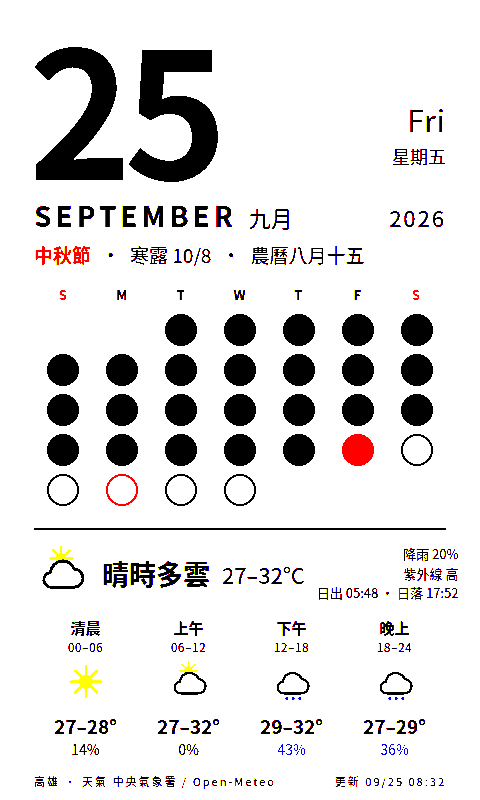
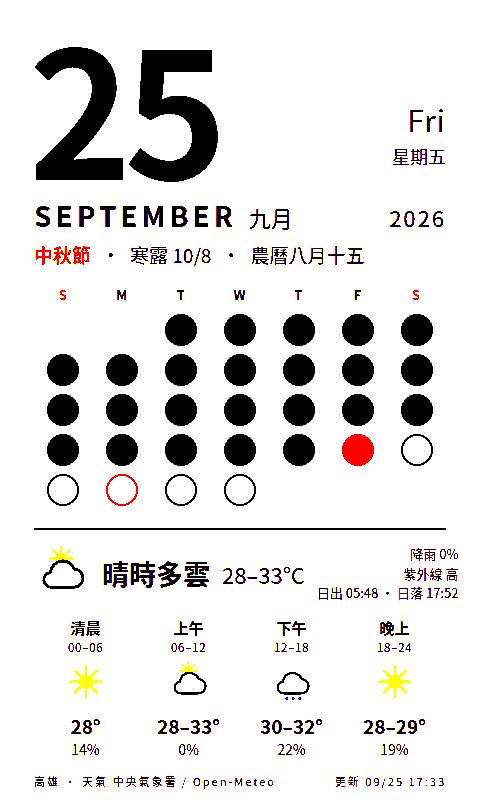
deploy: cf7d1051eb6821bc691ba0ade4beb12cdf9fe0ef

diff --git a/calendar.html b/calendar.html
@@ -54,9 +54,9 @@
   <div class="today"><span class="hl">中秋節</span><span>·</span><span class="lunar">寒露 10/8</span><span>·</span><span class="lunar">農曆八月十五</span></div>
   <div class="grid"><div class="h we">S</div><div class="h">M</div><div class="h">T</div><div class="h">W</div><div class="h">T</div><div class="h">F</div><div class="h we">S</div><div class="dot empty"></div><div class="dot empty"></div><div class="dot past" title="1"></div><div class="dot past" title="2"></div><div class="dot past" title="3"></div><div class="dot past" title="4"></div><div class="dot past" title="5"></div><div class="dot past" title="6"></div><div class="dot past" title="7"></div><div class="dot past" title="8"></div><div class="dot past" title="9"></div><div class="dot past" title="10"></div><div class="dot past" title="11"></div><div class="dot past" title="12"></div><div class="dot past" title="13"></div><div class="dot past" title="14"></div><div class="dot past" title="15"></div><div class="dot past" title="16"></div><div class="dot past" title="17"></div><div class="dot past" title="18"></div><div class="dot past" title="19"></div><div class="dot past" title="20"></div><div class="dot past" title="21"></div><div class="dot past" title="22"></div><div class="dot past" title="23"></div><div class="dot past" title="24"></div><div class="dot now" title="25"></div><div class="dot future" title="26"></div><div class="dot future" title="27"></div><div class="dot future hol" title="28"></div><div class="dot future" title="29"></div><div class="dot future" title="30"></div></div>
   <div class="wx"><div class="line">
-    <div class="wxhead"><svg viewBox="0 0 64 68" xmlns="http://www.w3.org/2000/svg"><g transform="translate(12 -4) scale(.6)"><circle cx="32" cy="32" r="11" fill="#f5c400"/><g stroke="#f5c400" stroke-width="4" stroke-linecap="round"><line x1="32" y1="32" x2="32" y2="8" transform="rotate(0 32 32)"/><line x1="32" y1="32" x2="32" y2="8" transform="rotate(45 32 32)"/><line x1="32" y1="32" x2="32" y2="8" transform="rotate(90 32 32)"/><line x1="32" y1="32" x2="32" y2="8" transform="rotate(135 32 32)"/><line x1="32" y1="32" x2="32" y2="8" transform="rotate(180 32 32)"/><line x1="32" y1="32" x2="32" y2="8" transform="rotate(225 32 32)"/><line x1="32" y1="32" x2="32" y2="8" transform="rotate(270 32 32)"/><line x1="32" y1="32" x2="32" y2="8" transform="rotate(315 32 32)"/></g></g><path d="M20 50h26a11 11 0 0 0 1-22 15 15 0 0 0-29 4 9 9 0 0 0 2 18z" fill="#fff" stroke="#000" stroke-width="3.5" stroke-linejoin="round"/></svg><span class="desc">晴時多雲</span><span class="temp">27–32°C</span>
-      <div class="meta">降雨 20%<br>紫外線 高<br>日出 05:48 · 日落 17:52</div></div>
-    <div class="slots"><div class="slot"><div class="n">清晨</div><div class="hrs">00–06</div><svg viewBox="0 0 64 68" xmlns="http://www.w3.org/2000/svg"><circle cx="32" cy="32" r="11" fill="#f5c400"/><g stroke="#f5c400" stroke-width="4" stroke-linecap="round"><line x1="32" y1="32" x2="32" y2="8" transform="rotate(0 32 32)"/><line x1="32" y1="32" x2="32" y2="8" transform="rotate(45 32 32)"/><line x1="32" y1="32" x2="32" y2="8" transform="rotate(90 32 32)"/><line x1="32" y1="32" x2="32" y2="8" transform="rotate(135 32 32)"/><line x1="32" y1="32" x2="32" y2="8" transform="rotate(180 32 32)"/><line x1="32" y1="32" x2="32" y2="8" transform="rotate(225 32 32)"/><line x1="32" y1="32" x2="32" y2="8" transform="rotate(270 32 32)"/><line x1="32" y1="32" x2="32" y2="8" transform="rotate(315 32 32)"/></g></svg><div class="t">27–28°</div><div class="p dry">14%</div></div><div class="slot"><div class="n">上午</div><div class="hrs">06–12</div><svg viewBox="0 0 64 68" xmlns="http://www.w3.org/2000/svg"><g transform="translate(12 -4) scale(.6)"><circle cx="32" cy="32" r="11" fill="#f5c400"/><g stroke="#f5c400" stroke-width="4" stroke-linecap="round"><line x1="32" y1="32" x2="32" y2="8" transform="rotate(0 32 32)"/><line x1="32" y1="32" x2="32" y2="8" transform="rotate(45 32 32)"/><line x1="32" y1="32" x2="32" y2="8" transform="rotate(90 32 32)"/><line x1="32" y1="32" x2="32" y2="8" transform="rotate(135 32 32)"/><line x1="32" y1="32" x2="32" y2="8" transform="rotate(180 32 32)"/><line x1="32" y1="32" x2="32" y2="8" transform="rotate(225 32 32)"/><line x1="32" y1="32" x2="32" y2="8" transform="rotate(270 32 32)"/><line x1="32" y1="32" x2="32" y2="8" transform="rotate(315 32 32)"/></g></g><path d="M20 50h26a11 11 0 0 0 1-22 15 15 0 0 0-29 4 9 9 0 0 0 2 18z" fill="#fff" stroke="#000" stroke-width="3.5" stroke-linejoin="round"/></svg><div class="t">27–32°</div><div class="p dry">0%</div></div><div class="slot"><div class="n">下午</div><div class="hrs">12–18</div><svg viewBox="0 0 64 68" xmlns="http://www.w3.org/2000/svg"><path d="M20 50h26a11 11 0 0 0 1-22 15 15 0 0 0-29 4 9 9 0 0 0 2 18z" fill="#fff" stroke="#000" stroke-width="3.5" stroke-linejoin="round"/><g fill="#0040ff"><circle cx="24" cy="58" r="2.2"/><circle cx="34" cy="58" r="2.2"/><circle cx="44" cy="58" r="2.2"/></g></svg><div class="t">29–32°</div><div class="p ">43%</div></div><div class="slot"><div class="n">晚上</div><div class="hrs">18–24</div><svg viewBox="0 0 64 68" xmlns="http://www.w3.org/2000/svg"><path d="M20 50h26a11 11 0 0 0 1-22 15 15 0 0 0-29 4 9 9 0 0 0 2 18z" fill="#fff" stroke="#000" stroke-width="3.5" stroke-linejoin="round"/><g fill="#0040ff"><circle cx="24" cy="58" r="2.2"/><circle cx="34" cy="58" r="2.2"/><circle cx="44" cy="58" r="2.2"/></g></svg><div class="t">27–29°</div><div class="p ">36%</div></div></div>
+    <div class="wxhead"><svg viewBox="0 0 64 68" xmlns="http://www.w3.org/2000/svg"><g transform="translate(12 -4) scale(.6)"><circle cx="32" cy="32" r="11" fill="#f5c400"/><g stroke="#f5c400" stroke-width="4" stroke-linecap="round"><line x1="32" y1="32" x2="32" y2="8" transform="rotate(0 32 32)"/><line x1="32" y1="32" x2="32" y2="8" transform="rotate(45 32 32)"/><line x1="32" y1="32" x2="32" y2="8" transform="rotate(90 32 32)"/><line x1="32" y1="32" x2="32" y2="8" transform="rotate(135 32 32)"/><line x1="32" y1="32" x2="32" y2="8" transform="rotate(180 32 32)"/><line x1="32" y1="32" x2="32" y2="8" transform="rotate(225 32 32)"/><line x1="32" y1="32" x2="32" y2="8" transform="rotate(270 32 32)"/><line x1="32" y1="32" x2="32" y2="8" transform="rotate(315 32 32)"/></g></g><path d="M20 50h26a11 11 0 0 0 1-22 15 15 0 0 0-29 4 9 9 0 0 0 2 18z" fill="#fff" stroke="#000" stroke-width="3.5" stroke-linejoin="round"/></svg><span class="desc">晴時多雲</span><span class="temp">28–33°C</span>
+      <div class="meta">降雨 0%<br>紫外線 高<br>日出 05:48 · 日落 17:52</div></div>
+    <div class="slots"><div class="slot"><div class="n">清晨</div><div class="hrs">00–06</div><svg viewBox="0 0 64 68" xmlns="http://www.w3.org/2000/svg"><circle cx="32" cy="32" r="11" fill="#f5c400"/><g stroke="#f5c400" stroke-width="4" stroke-linecap="round"><line x1="32" y1="32" x2="32" y2="8" transform="rotate(0 32 32)"/><line x1="32" y1="32" x2="32" y2="8" transform="rotate(45 32 32)"/><line x1="32" y1="32" x2="32" y2="8" transform="rotate(90 32 32)"/><line x1="32" y1="32" x2="32" y2="8" transform="rotate(135 32 32)"/><line x1="32" y1="32" x2="32" y2="8" transform="rotate(180 32 32)"/><line x1="32" y1="32" x2="32" y2="8" transform="rotate(225 32 32)"/><line x1="32" y1="32" x2="32" y2="8" transform="rotate(270 32 32)"/><line x1="32" y1="32" x2="32" y2="8" transform="rotate(315 32 32)"/></g></svg><div class="t">28°</div><div class="p dry">14%</div></div><div class="slot"><div class="n">上午</div><div class="hrs">06–12</div><svg viewBox="0 0 64 68" xmlns="http://www.w3.org/2000/svg"><g transform="translate(12 -4) scale(.6)"><circle cx="32" cy="32" r="11" fill="#f5c400"/><g stroke="#f5c400" stroke-width="4" stroke-linecap="round"><line x1="32" y1="32" x2="32" y2="8" transform="rotate(0 32 32)"/><line x1="32" y1="32" x2="32" y2="8" transform="rotate(45 32 32)"/><line x1="32" y1="32" x2="32" y2="8" transform="rotate(90 32 32)"/><line x1="32" y1="32" x2="32" y2="8" transform="rotate(135 32 32)"/><line x1="32" y1="32" x2="32" y2="8" transform="rotate(180 32 32)"/><line x1="32" y1="32" x2="32" y2="8" transform="rotate(225 32 32)"/><line x1="32" y1="32" x2="32" y2="8" transform="rotate(270 32 32)"/><line x1="32" y1="32" x2="32" y2="8" transform="rotate(315 32 32)"/></g></g><path d="M20 50h26a11 11 0 0 0 1-22 15 15 0 0 0-29 4 9 9 0 0 0 2 18z" fill="#fff" stroke="#000" stroke-width="3.5" stroke-linejoin="round"/></svg><div class="t">28–33°</div><div class="p dry">0%</div></div><div class="slot"><div class="n">下午</div><div class="hrs">12–18</div><svg viewBox="0 0 64 68" xmlns="http://www.w3.org/2000/svg"><path d="M20 50h26a11 11 0 0 0 1-22 15 15 0 0 0-29 4 9 9 0 0 0 2 18z" fill="#fff" stroke="#000" stroke-width="3.5" stroke-linejoin="round"/><g fill="#0040ff"><circle cx="24" cy="58" r="2.2"/><circle cx="34" cy="58" r="2.2"/><circle cx="44" cy="58" r="2.2"/></g></svg><div class="t">30–32°</div><div class="p dry">22%</div></div><div class="slot"><div class="n">晚上</div><div class="hrs">18–24</div><svg viewBox="0 0 64 68" xmlns="http://www.w3.org/2000/svg"><circle cx="32" cy="32" r="11" fill="#f5c400"/><g stroke="#f5c400" stroke-width="4" stroke-linecap="round"><line x1="32" y1="32" x2="32" y2="8" transform="rotate(0 32 32)"/><line x1="32" y1="32" x2="32" y2="8" transform="rotate(45 32 32)"/><line x1="32" y1="32" x2="32" y2="8" transform="rotate(90 32 32)"/><line x1="32" y1="32" x2="32" y2="8" transform="rotate(135 32 32)"/><line x1="32" y1="32" x2="32" y2="8" transform="rotate(180 32 32)"/><line x1="32" y1="32" x2="32" y2="8" transform="rotate(225 32 32)"/><line x1="32" y1="32" x2="32" y2="8" transform="rotate(270 32 32)"/><line x1="32" y1="32" x2="32" y2="8" transform="rotate(315 32 32)"/></g></svg><div class="t">28–29°</div><div class="p dry">19%</div></div></div>
   </div></div>
-  <div class="foot"><span>高雄 · 天氣 中央氣象署 / Open-Meteo</span><span>更新 09/25 08:32</span></div>
+  <div class="foot"><span>高雄 · 天氣 中央氣象署 / Open-Meteo</span><span>更新 09/25 17:33</span></div>
 </div></body></html>
